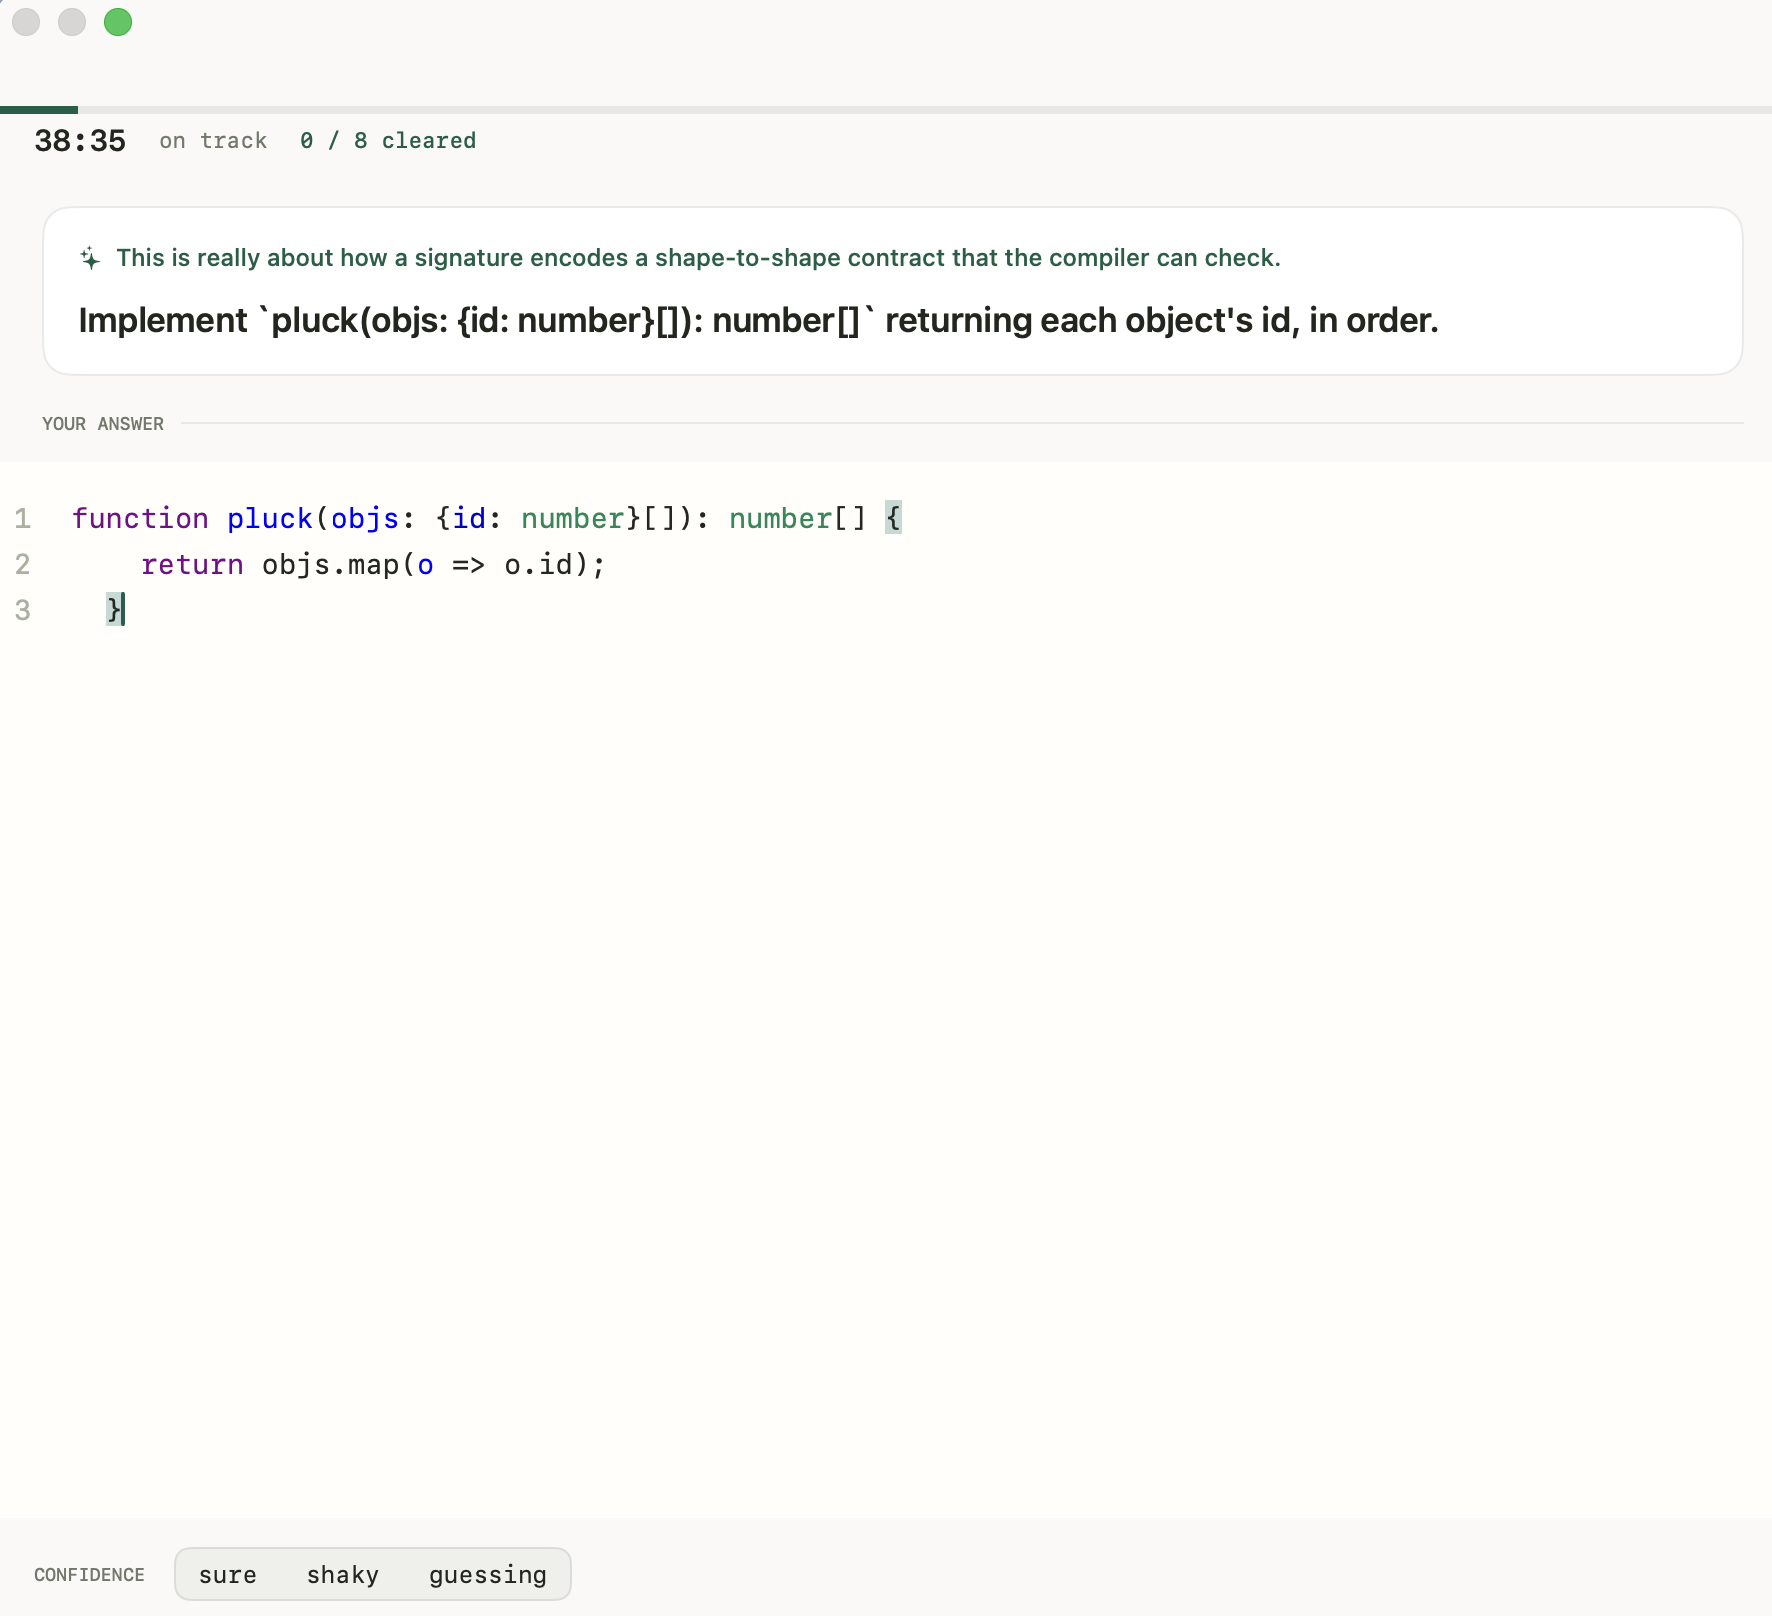
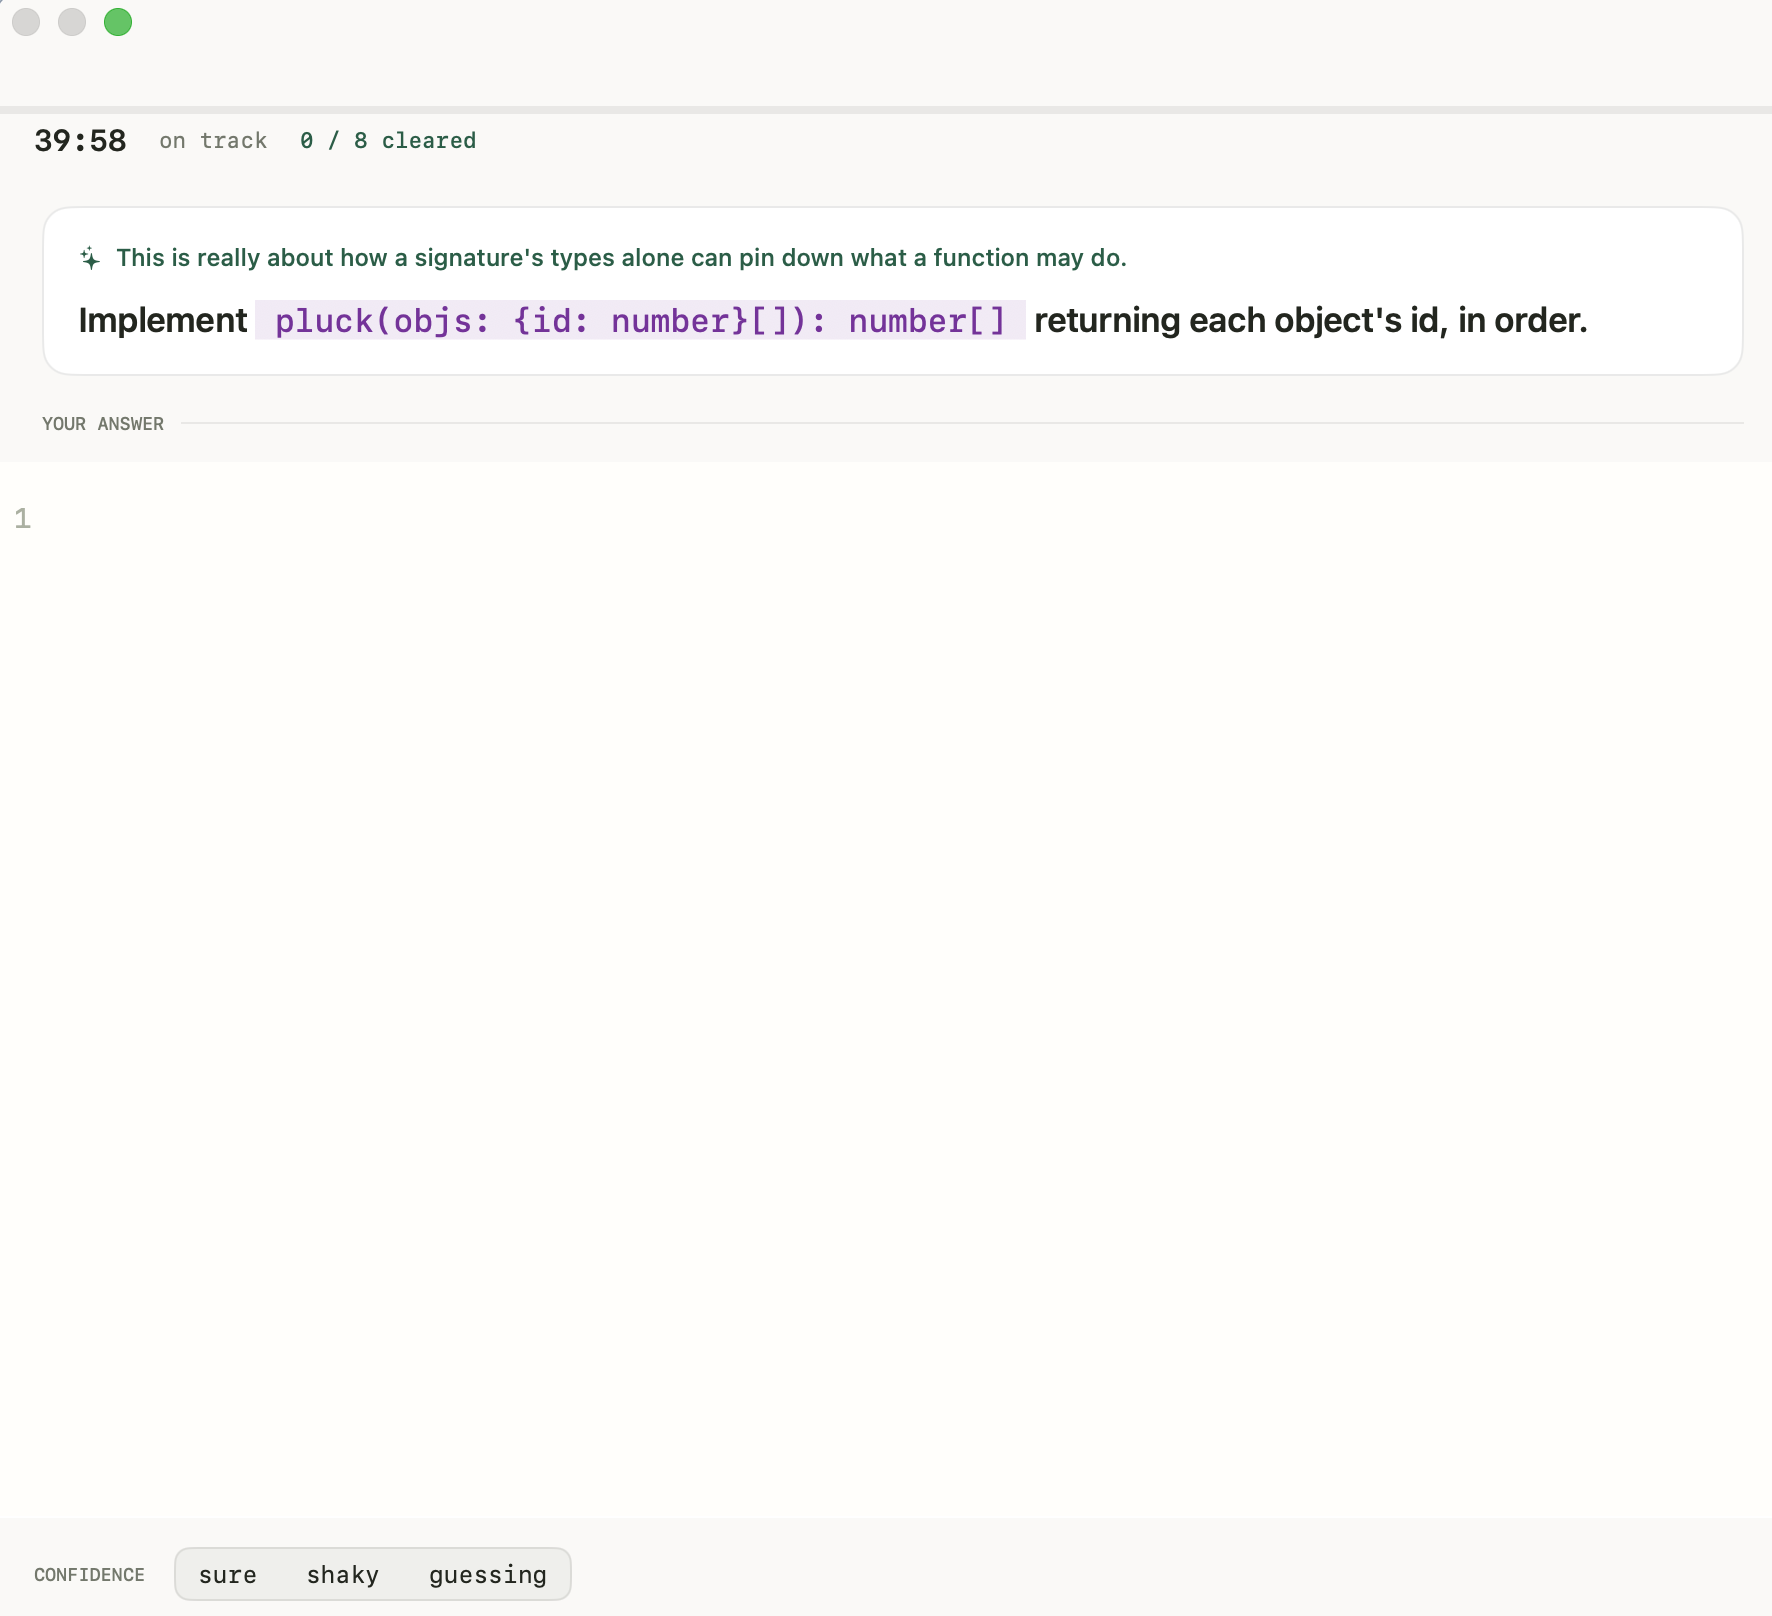
Code-box question screenshot; add calendar showcase; distinct screens

diff --git a/index.html b/index.html
@@ -54,7 +54,8 @@ nav .platform{margin-left:auto;font-family:"IBM Plex Mono",monospace;font-size:1
 .card p{color:var(--muted);margin:0 0 16px;font-size:15.5px;max-width:48ch}
 .card img{border-radius:11px;border:1px solid var(--line);box-shadow:0 1px 2px rgba(16,36,29,.04),0 16px 38px rgba(16,36,29,.10);width:100%}
 
-.why{padding:76px 0 10px}
+.showcase{padding:80px 0 10px;border-top:1px solid var(--line)}
+.why{padding:76px 0 10px;border-top:1px solid var(--line)}
 .why .head{text-align:center;margin-bottom:38px}
 .whyrow{display:grid;grid-template-columns:repeat(3,1fr)}
 @media(max-width:700px){.whyrow{grid-template-columns:1fr}}
@@ -120,6 +121,12 @@ footer .wrap{padding:30px 28px;display:flex;flex-wrap:wrap;gap:10px;align-items:
       <img src="assets/mastery.png" alt="A map of your skills and progress" loading="lazy">
     </div>
   </div>
+</div></section>
+
+<section class="showcase"><div class="wrap">
+  <div class="head" style="text-align:center;margin-bottom:34px"><span class="eye">Plan the week</span><h2 style="font-family:'Newsreader',serif;font-weight:500;font-size:clamp(27px,4vw,38px);letter-spacing:-.015em;margin:10px 0 0">Commit ahead, and keep it.</h2></div>
+  <p style="text-align:center;color:var(--muted);max-width:52ch;margin:0 auto 34px">Schedule focused blocks in a simple week view. Each one is binding, and you can forward them straight to your Google Calendar.</p>
+  <div style="max-width:900px;margin:0 auto;border-radius:14px;overflow:hidden;border:1px solid var(--line);box-shadow:0 2px 8px rgba(16,36,29,.06),0 30px 64px rgba(16,36,29,.14)"><img src="assets/calendar.png" alt="A weekly calendar of upcoming blocks" loading="lazy"></div>
 </div></section>
 
 <section class="why"><div class="wrap">
